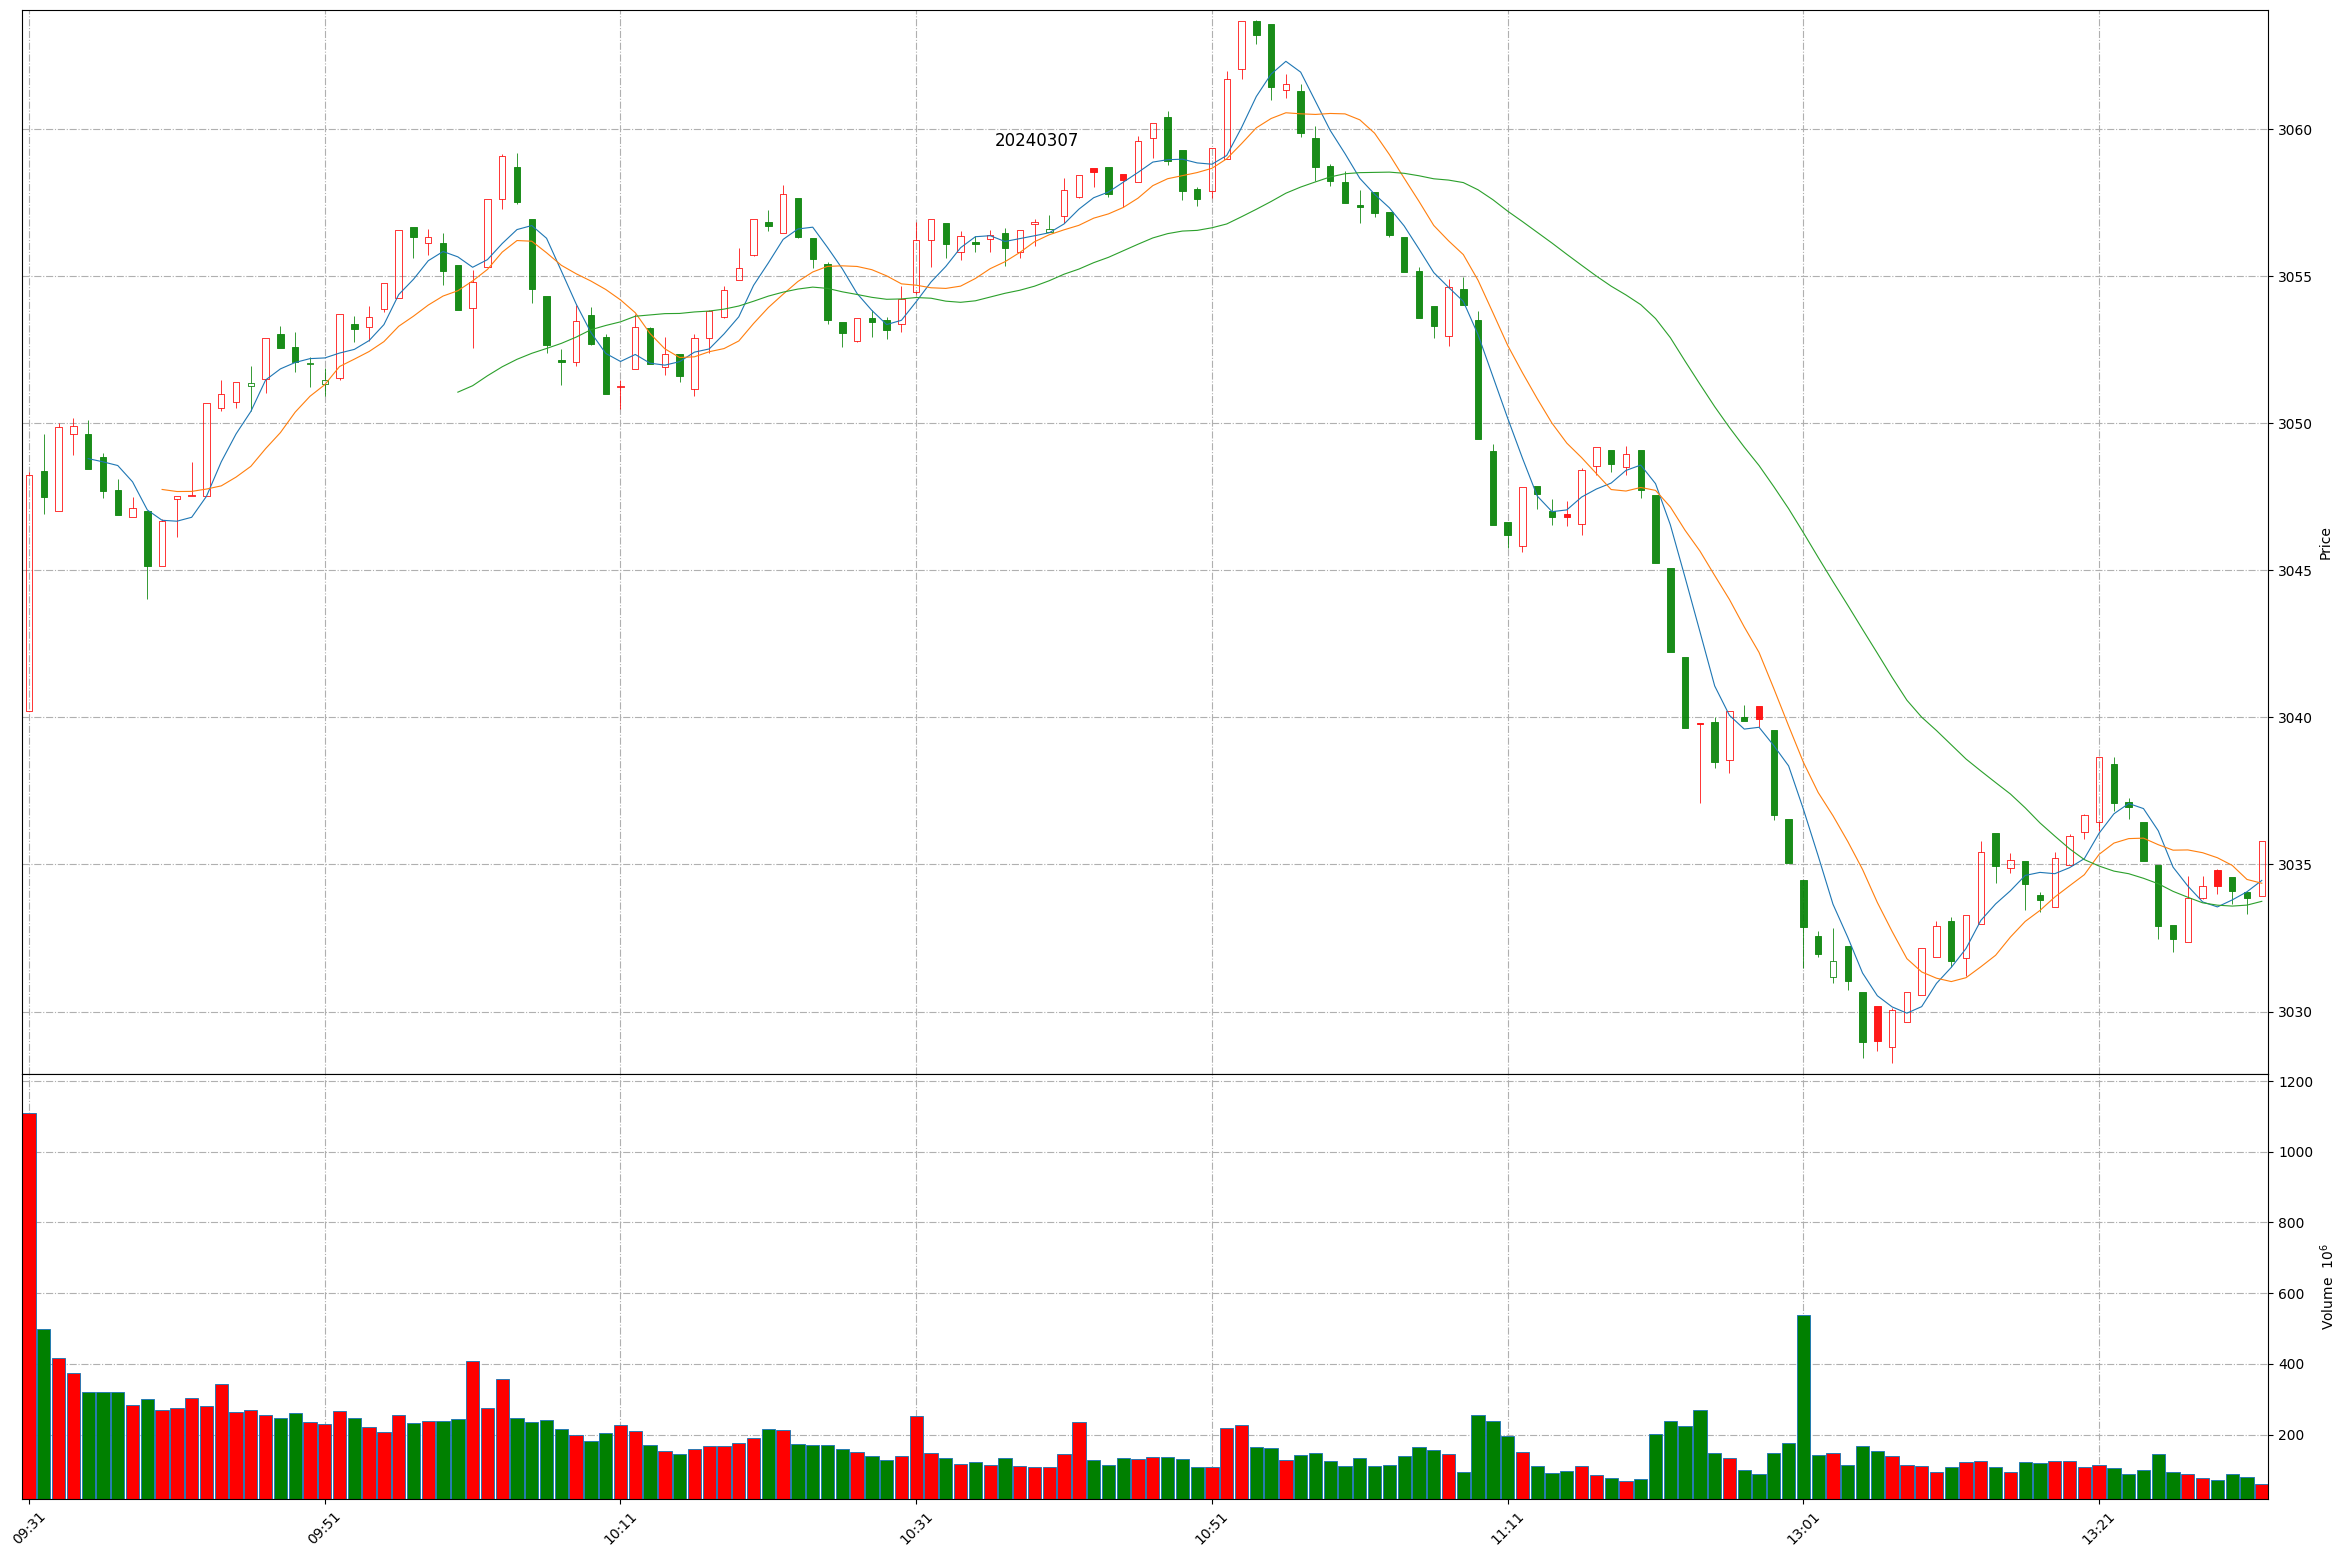
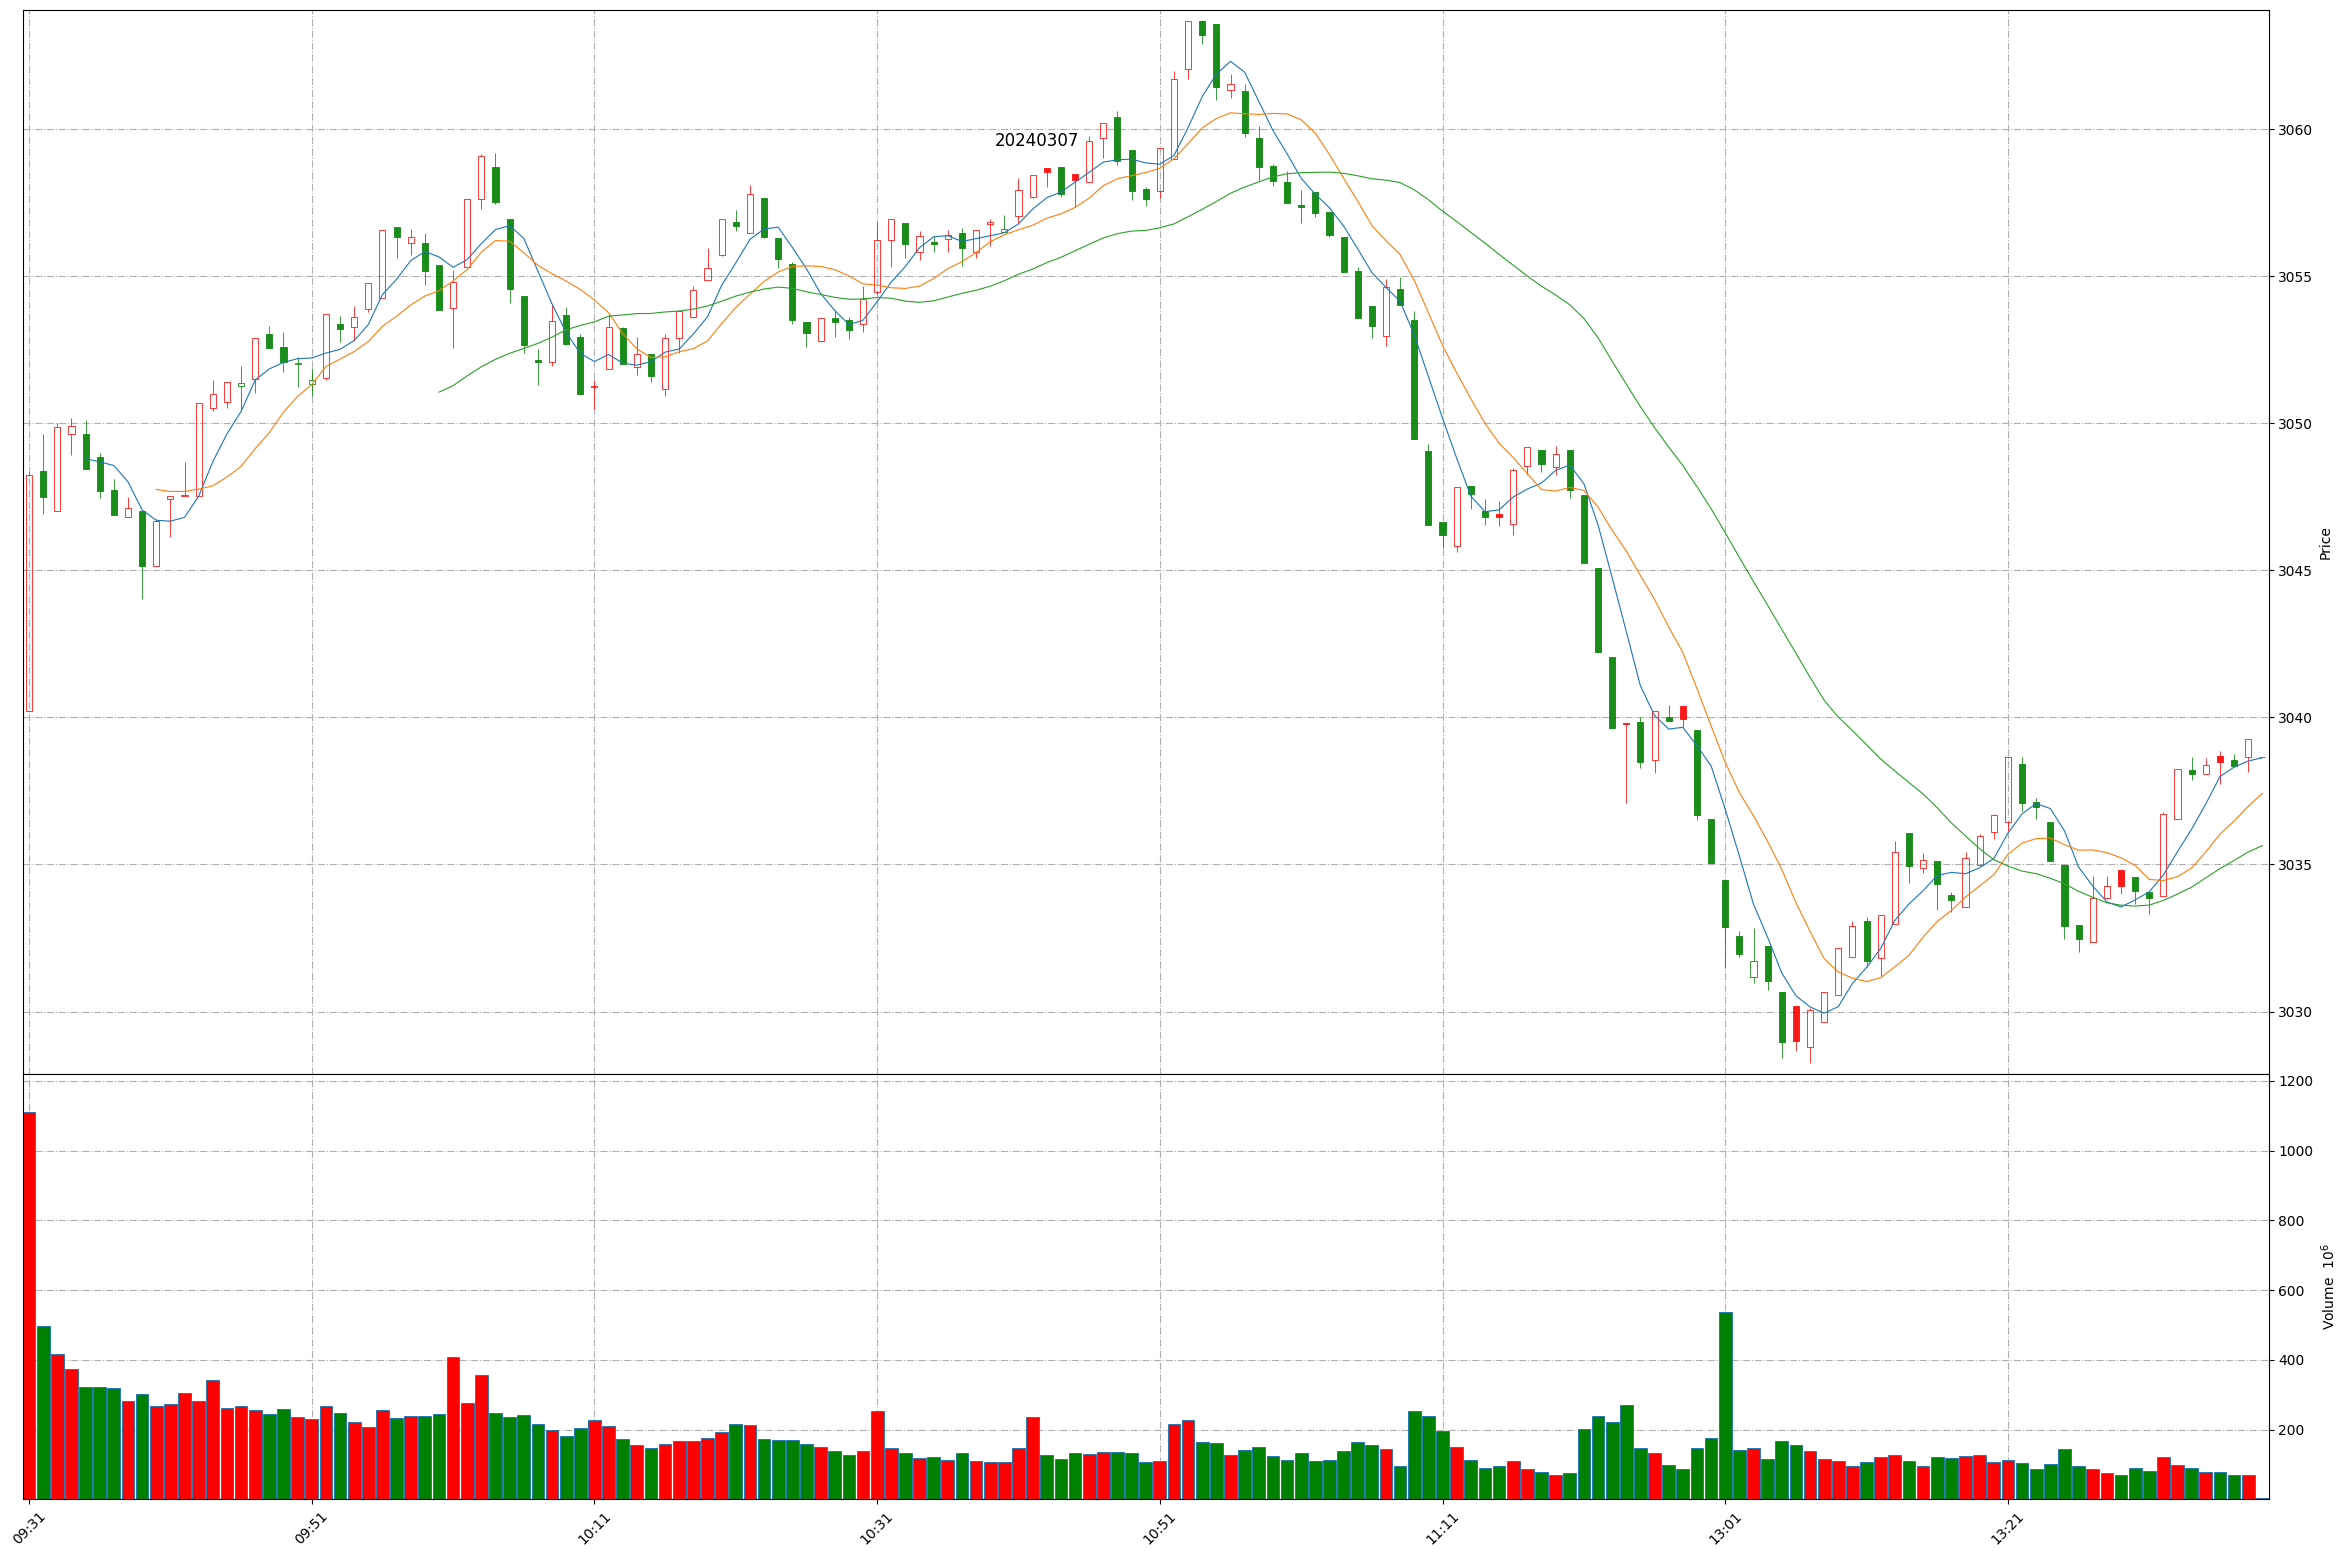
Github action update at 2024-03-07 13:38:29.

diff --git a/README.md b/README.md
@@ -1,11 +1,11 @@
 
 # Daily-A-share-market-quotes 每日 A 股指数（5min 更新）- 20240307
 
-### 上证指数 20240307 13:31
+### 上证指数 20240307 13:38
 ![](./fig/2024/3/20240307-sh000001.png)
 
-### 深证成指 20240307 13:31
+### 深证成指 20240307 13:38
 ![](./fig/2024/3/20240307-sz399001.png)
 
-### 北证50 20240307 13:31
+### 北证50 20240307 13:38
 ![](./fig/2024/3/20240307-bj899050.png)
